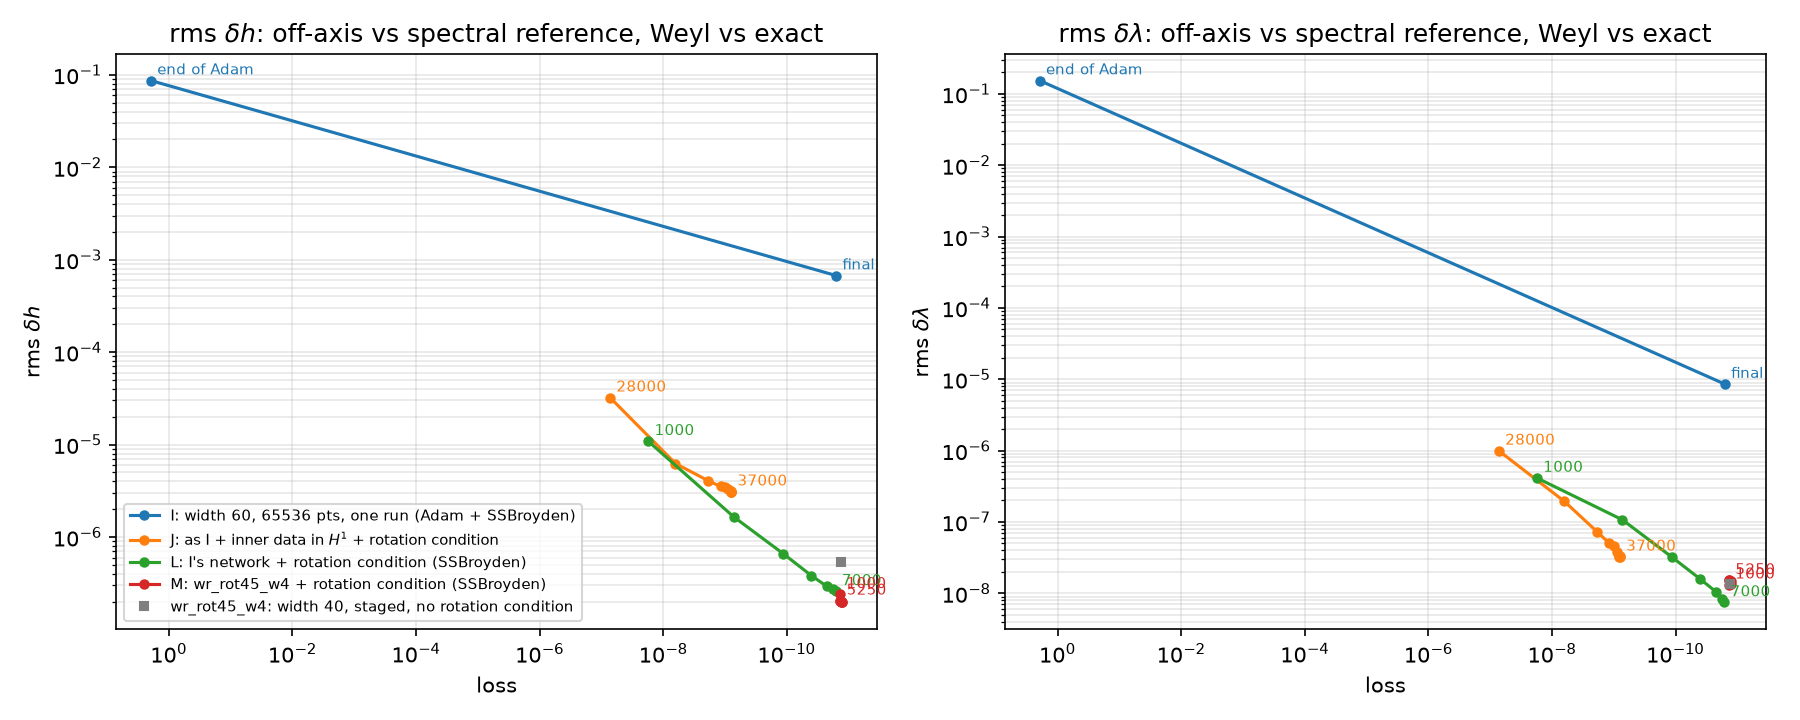
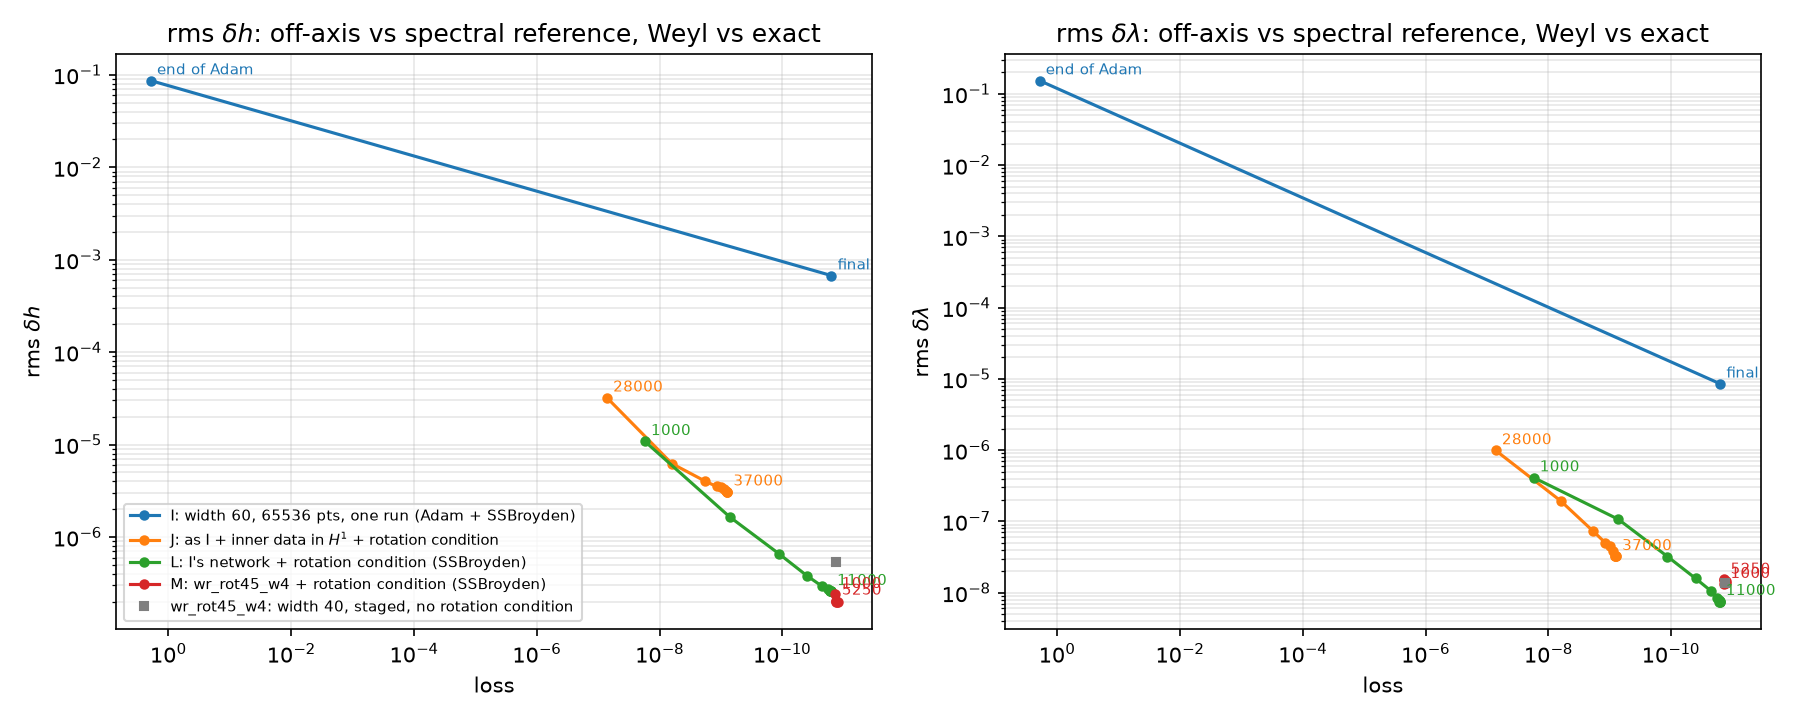
L finished: rms dh 2.6e-7, dlam 7.6e-9 (= axisymmetric network); figures redrawn with L, surface from L

diff --git a/Stationary/Paper/fig_training.py b/Stationary/Paper/fig_training.py
@@ -13,7 +13,7 @@ Reads the local copies of the runs (history.json, params_itNNNNNN.pkl snapshots)
                          against the rotated spectral reference specref_nonlinear_fine (as grade_rotated);
                          Weyl runs: against the exact solution.  The off-axis points of I are its end of Adam
                          and its final network (I kept no snapshots).
-    surface_J.png        surface plots of the J network's lambda and log10 R_ab R^ab (3-d Ricci of h, from
+    surface_L.png        surface plots of the L network's lambda and log10 R_ab R^ab (3-d Ricci of h, from
                          its autodiff Gamma derivatives, vtk.fields_at) on the plane y = 0, which contains
                          the datum axis (1,0,1)/sqrt 2; polar grid rho_in <= rho <= 4.
 
@@ -132,7 +132,7 @@ def fig_loss(remote, out):
     sJ, lJ = history(os.path.join(remote, OFF["J"]))
     ax[0].semilogy(sJ, lJ, color=COL["J"], label=LEGEND["J"])
     sL, lL = history(os.path.join(remote, OFF["L"]))
-    ax[0].semilogy(sI[-1] + sL, lL, color=COL["L"], label=LEGEND["L"] + " (crashed at 7000; resuming)")
+    ax[0].semilogy(sI[-1] + sL, lL, color=COL["L"], label=LEGEND["L"])
     ax[0].axvline(5000, color="0.6", lw=0.8, ls=":")
     k = int(np.argmax(lJ[1:] / lJ[:-1])) + 1                 # J's jump: the rotation term switched on
     ax[0].annotate("J resumed with the\nrotation condition", (sJ[k], lJ[k]), xytext=(-110, 10),
@@ -181,11 +181,11 @@ def fig_error(res, out):
     print(f"[fig] wrote {out}")
 
 
-def fig_surface(remote, out, n=121, L=4.0):
+def fig_surface(remote, out, n=121, L=4.0, key="L"):
     from stationary.evaluate import load_run
     from stationary.model import point_fields
     from stationary.vtk import fields_at
-    run = os.path.join(remote, OFF["J"])
+    run = os.path.join(remote, OFF[key])
     cfg, model, state = load_run(run, "params.pkl")[:3]
     pf = point_fields(model, state["net"])
     # polar grid on the plane, so that the inner sphere is a clean edge
@@ -210,9 +210,9 @@ def fig_surface(remote, out, n=121, L=4.0):
         s0 = cfg.rho_in / np.sqrt(2)
         for sg in (1, -1):                                   # the datum axis x = z, outside rho_in
             a.plot([sg * s0, sg * L], [sg * s0, sg * L], [np.nanmin(V)] * 2, "k--", lw=1)
-        a.set(xlabel="x", ylabel="z", title=t + "  (network J, plane y = 0)")
+        a.set(xlabel="x", ylabel="z", title=t + f"  (network {key}, plane y = 0)")
         a.view_init(elev=32, azim=-60)
-    fig.suptitle("J network on the plane containing the datum axis (1,0,1) (dashed); "
+    fig.suptitle(f"{key} network on the plane containing the datum axis (1,0,1) (dashed); "
                  r"inner sphere $\rho=1$ at the bottom", fontsize=10)
     fig.tight_layout()
     fig.savefig(out, dpi=150)
@@ -233,7 +233,7 @@ def main(argv=None):
     if "error" in want:
         fig_error(errors(a.remote, a.recompute), os.path.join(figs, "training_error.png"))
     if "surface" in want:
-        fig_surface(a.remote, os.path.join(figs, "surface_J.png"))
+        fig_surface(a.remote, os.path.join(figs, "surface_L.png"))
 
 
 if __name__ == "__main__":

diff --git a/Stationary/Paper/NOTES.md b/Stationary/Paper/NOTES.md
@@ -14,7 +14,7 @@ nothing was recomputed for the paper.
 | III networks, loss, optimisers, specref | README.md 6.1, 8.6; REPORT_OPTIMISERS.md; DSGNAR.md 1-9; HUB.md (timings); stationary/specref.py |
 | IV tests | README.md 8.1-8.12 (m2R3_symhybrid, m2R4_realrobin, weyl_prod, weyl_unequal, weyl_close4/35, weyl_rot45*) |
 | V quadrupole | REPORT_PIN_COM.md; PERTURBATION.md; COM_GAUGE.md; DSGNAR.md rounds 3-27; MULTIPOLES_GH_THORNE.md |
-| figures | figs/optimisers.png = plots/report_optimisers.png; figs/com_steps.png = plots/report_pin_com.png; figs/weyl_surface.png = runs/wr_prod_w2/plane/plane_surface.png (`python -m stationary.plane runs/wr_prod_w2 --no-title --n-rho 100 --n-z 151 --surface`; surfaces to rho = 30, replaced weyl_plane.png on 2026-11-10 at the author's request); figs/training_*.png, surface_J.png = Paper/fig_training.py |
+| figures | figs/optimisers.png = plots/report_optimisers.png; figs/com_steps.png = plots/report_pin_com.png; figs/weyl_surface.png = runs/wr_prod_w2/plane/plane_surface.png (`python -m stationary.plane runs/wr_prod_w2 --no-title --n-rho 100 --n-z 151 --surface`; surfaces to rho = 30, replaced weyl_plane.png on 2026-11-10 at the author's request); figs/training_*.png, surface_L.png = Paper/fig_training.py |
 
 ## Open items (marked TODO in the text)
 
@@ -442,7 +442,7 @@ condition there.
 
 ### Results of J, M and the first half of L (2026-11-10)
 Figures: `Paper/fig_training.py` -> `figs/training_loss.png` (loss vs iteration), `figs/training_error.png`
-(rms error vs loss at the snapshots; cache `aux/training_errors.json`), `figs/surface_J.png` (J's lambda and
+(rms error vs loss at the snapshots; cache `aux/training_errors.json`), `figs/surface_L.png` (L's lambda and
 log10 R_ab R^ab of h on the plane y = 0, which contains the datum axis).  Off-axis errors are against the rotated
 spectral reference specref_nonlinear_fine; Weyl errors against the exact solution.
 
@@ -459,3 +459,10 @@ spectral reference specref_nonlinear_fine; Weyl errors against the exact solutio
    keeps J's loss at 8e-10 (its PDE residual terms are 25-70x larger than L's), so H^1 is not needed and costs accuracy.
 2. In M the rms dh improves 2.6x (the mode was 50-70% of the inner error), max dh and dlambda do not change.
 3. J's jump in the loss curve at 27000 is the rotation term switched on at its resume.
+
+L finished (2026-11-11 01:40 UTC, Mendieta job 1186619, resumed from 7000): the plateau rule stopped SSBroyden at
+11000, loss 1.62e-11 (fresh ratio 1.03), rms dh 2.59e-7, max 3.3e-6, rms dlam 7.6e-9, max 1.0e-7; by region
+dh 5.4e-7 / 2.8e-8 / 2.6e-9 / 1.5e-9 and dlam 1.5e-8 / 2.4e-9 / 1.4e-9 / 1.0e-9 on 1-3 / 3-10 / 10-30 / 30-100;
+|d| <= 1.4e-8.  The errors were already reached at 7000.  The general 3-D network is now as accurate as the
+axisymmetric one on the axis-aligned problem (tab:com: 1.45e-7 in h, 7.1e-9 in lambda; three seeds 1.45-3.1e-7,
+0.7-1.9e-8).  2.2 h on the A30 for the 11000 SSBroyden iterations.
